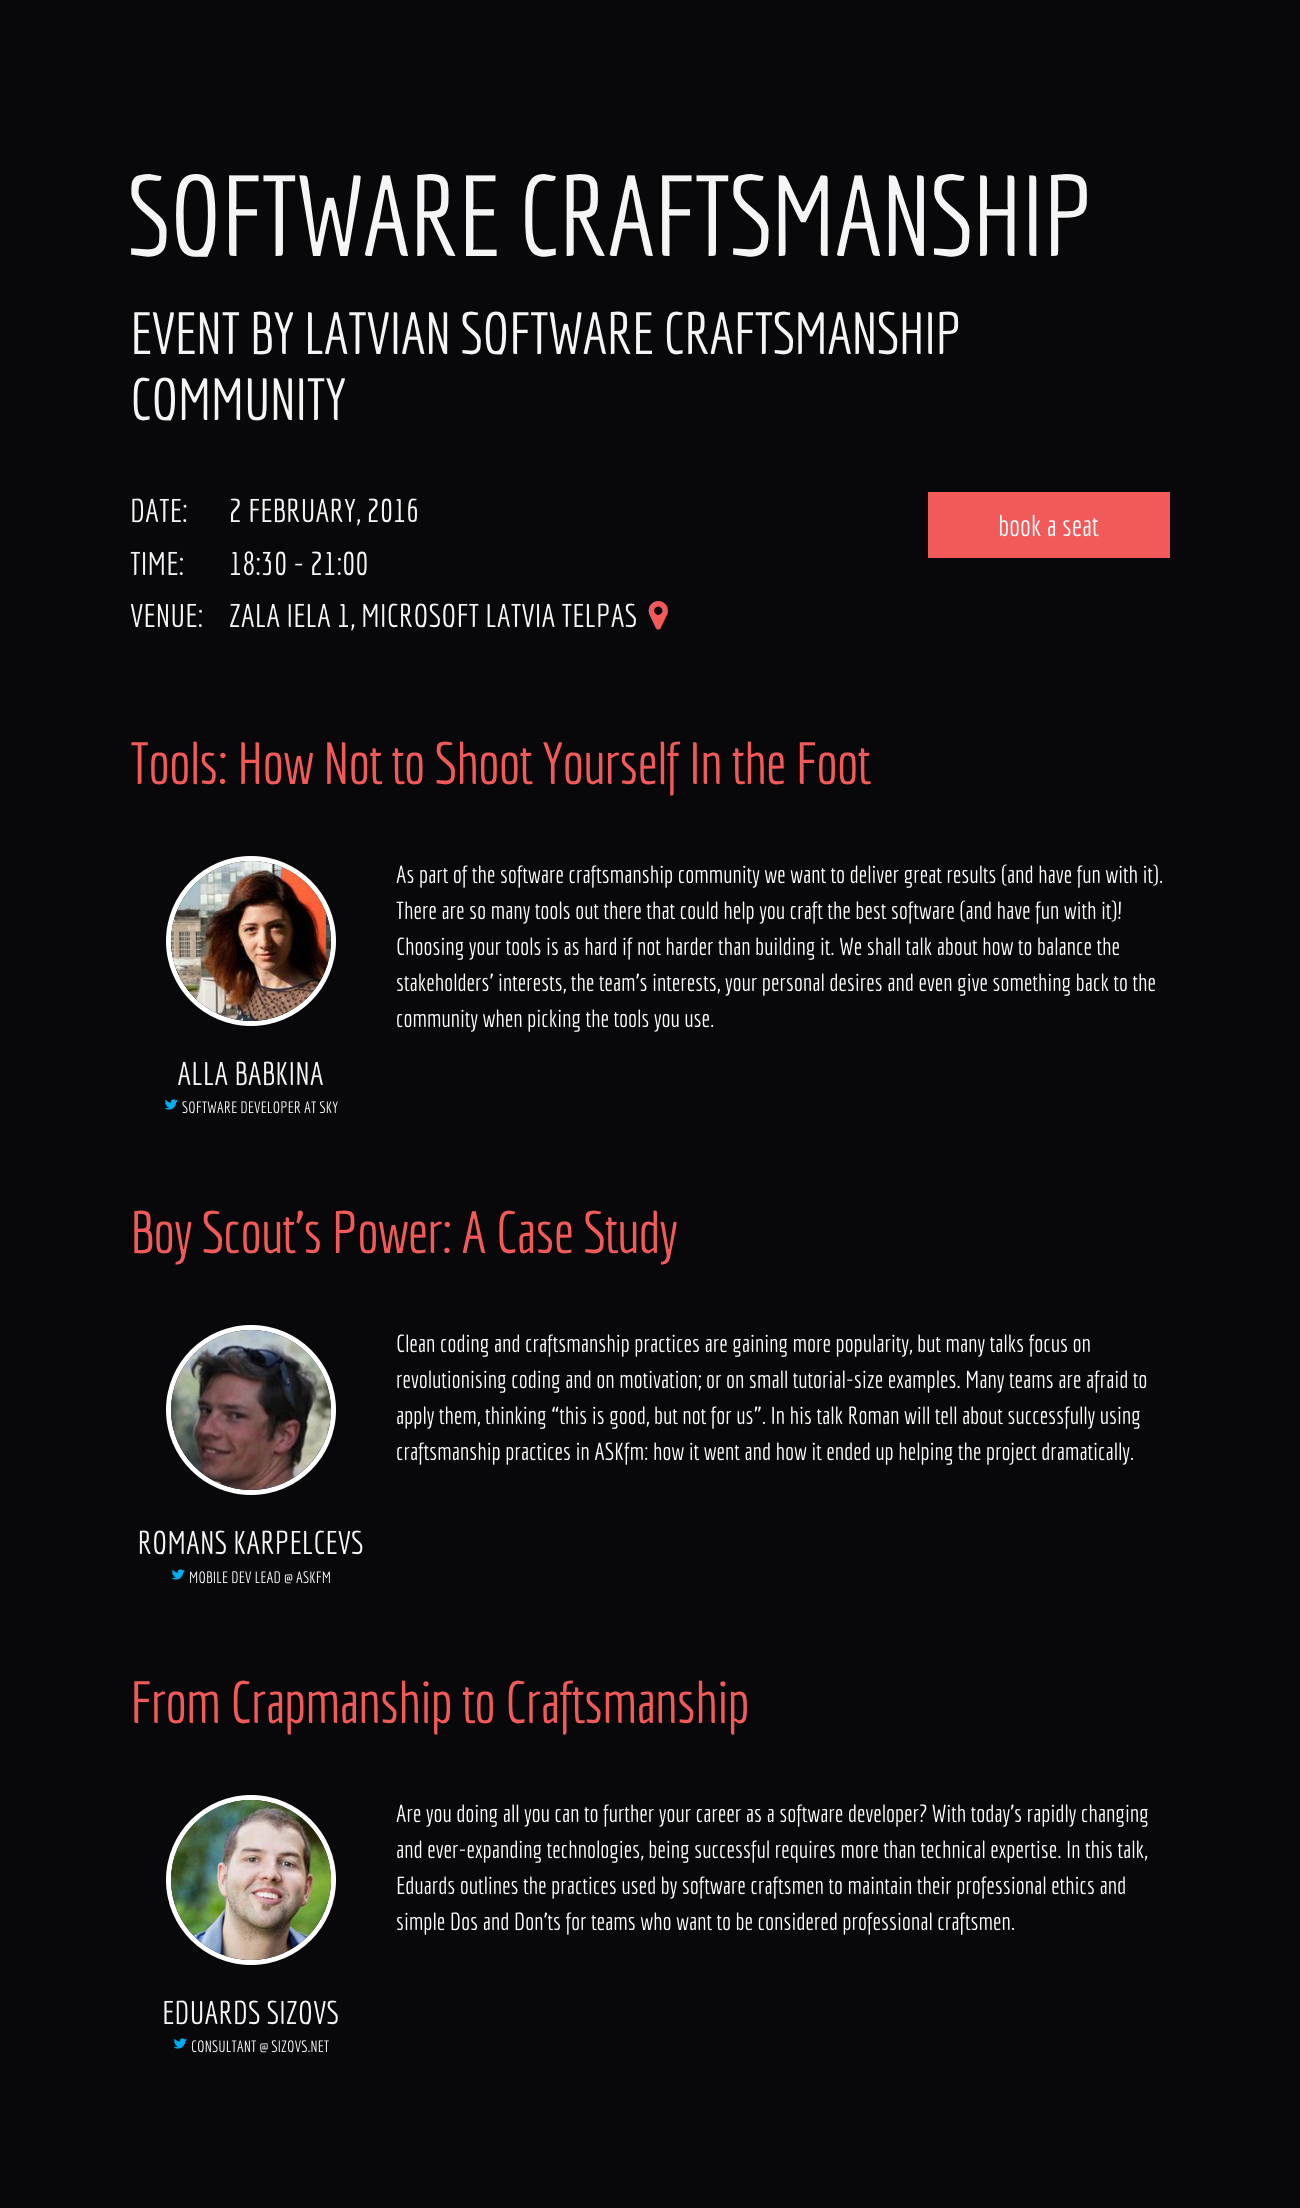
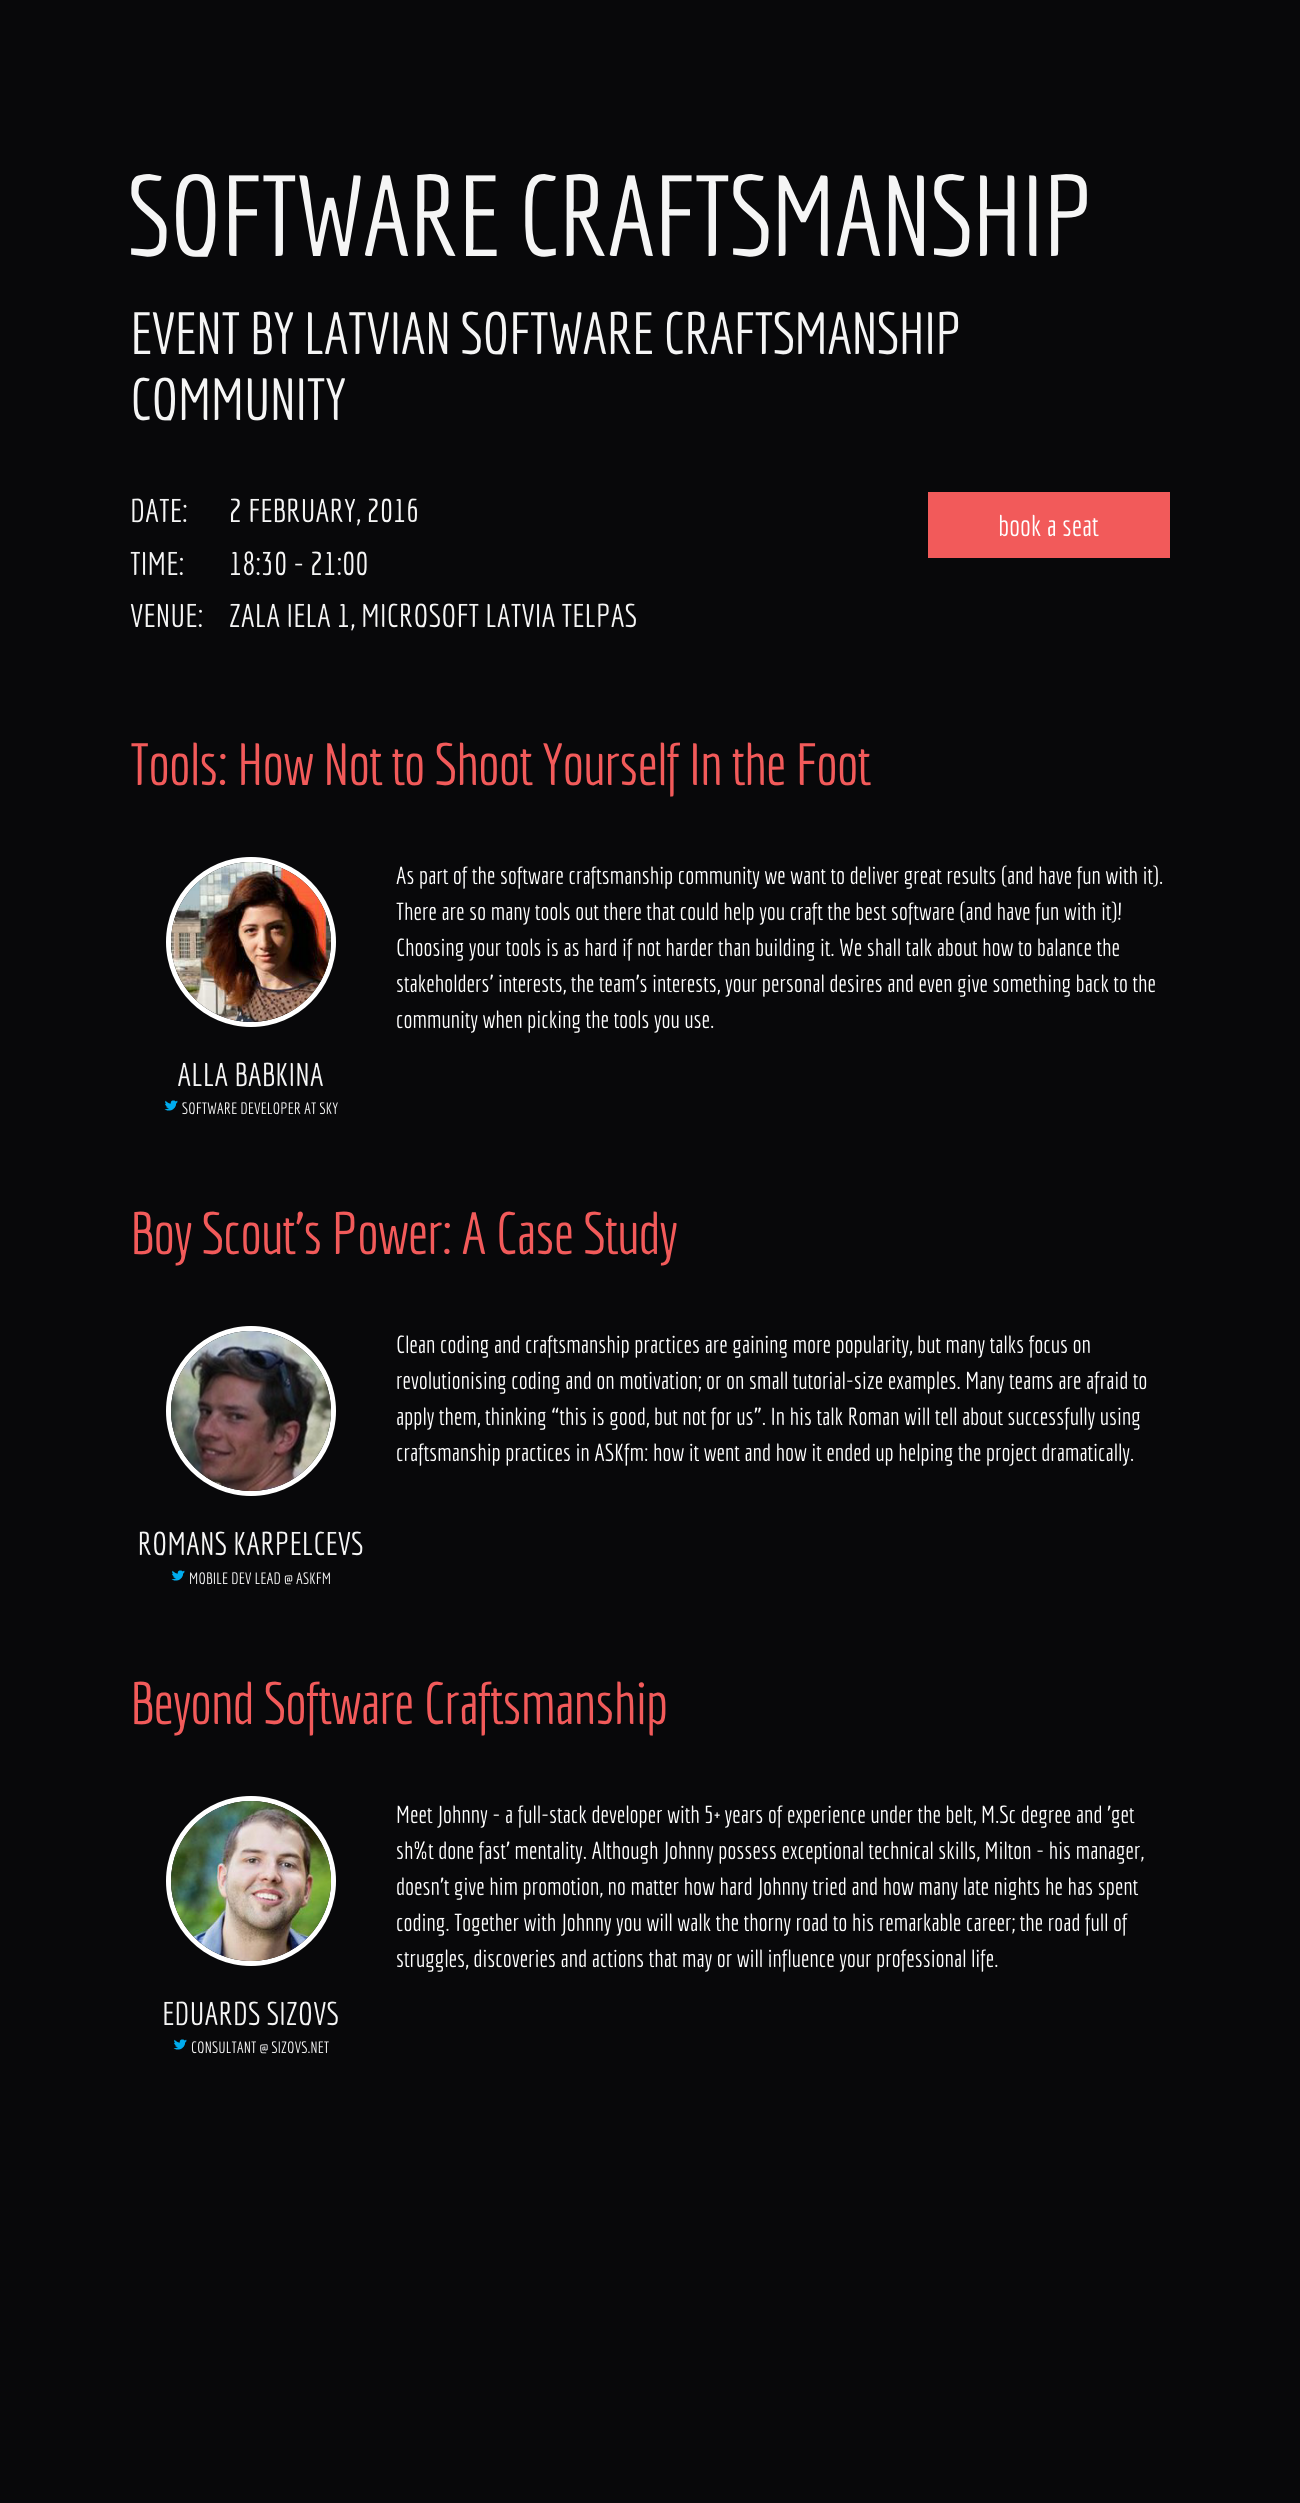
Update 2016-01-26T22:03:34.905Z

diff --git a/2016/craftsmanship.html b/2016/craftsmanship.html
@@ -62,14 +62,14 @@
             </div>
             <p class="description">Clean coding and craftsmanship practices are gaining more popularity, but many talks focus on revolutionising coding and on motivation; or on small tutorial-size examples. Many teams are afraid to apply them, thinking “this is good, but not for us”. In his talk Roman will tell about successfully using craftsmanship practices in ASKfm: how it went and how it ended up helping the project dramatically.														</p>
           </section>
-          <h2>From Crapmanship to Craftsmanship</h2>
+          <h2>Beyond Software Craftsmanship</h2>
           <section>
             <div class="bio"><img src="/img/speakers/eduardsi.jpg" alt="Eduards Sizovs" class="headshot">
               <h3>Eduards Sizovs</h3>
               <h4> <a href="https://twitter.com/eduardsi"><img src="/img/twitter.png" alt="@eduardsi at Twitter"></a><span>&nbsp;Consultant @ Sizovs.net</span>
               </h4>
             </div>
-            <p class="description">Are you doing all you can to further your career as a software developer? With today's rapidly changing and ever-expanding technologies, being successful requires more than technical expertise. In this talk, Eduards outlines the practices used by software craftsmen to maintain their professional ethics and simple Dos and Don'ts for teams who want to be considered professional craftsmen.														</p>
+            <p class="description">Meet Johnny - a full-stack developer with 5+ years of experience under the belt, M.Sc degree and 'get sh%t done fast' mentality. Although Johnny possess exceptional technical skills, Milton - his manager, doesn't give him promotion, no matter how hard Johnny tried and how many late nights he has spent coding. Together with Johnny you will walk the thorny road to his remarkable career; the road full of struggles, discoveries and actions that may or will influence your professional life.														</p>
           </section>
         </div>
       </div>

diff --git a/img/2016/craftsmanship.html b/img/2016/craftsmanship.html
@@ -62,14 +62,14 @@
             </div>
             <p class="description">Clean coding and craftsmanship practices are gaining more popularity, but many talks focus on revolutionising coding and on motivation; or on small tutorial-size examples. Many teams are afraid to apply them, thinking “this is good, but not for us”. In his talk Roman will tell about successfully using craftsmanship practices in ASKfm: how it went and how it ended up helping the project dramatically.														</p>
           </section>
-          <h2>From Crapmanship to Craftsmanship</h2>
+          <h2>Beyond Software Craftsmanship</h2>
           <section>
             <div class="bio"><img src="/img/speakers/eduardsi.jpg" alt="Eduards Sizovs" class="headshot">
               <h3>Eduards Sizovs</h3>
               <h4> <a href="https://twitter.com/eduardsi"><img src="/img/twitter.png" alt="@eduardsi at Twitter"></a><span>&nbsp;Consultant @ Sizovs.net</span>
               </h4>
             </div>
-            <p class="description">Are you doing all you can to further your career as a software developer? With today's rapidly changing and ever-expanding technologies, being successful requires more than technical expertise. In this talk, Eduards outlines the practices used by software craftsmen to maintain their professional ethics and simple Dos and Don'ts for teams who want to be considered professional craftsmen.														</p>
+            <p class="description">Meet Johnny - a full-stack developer with 5+ years of experience under the belt, M.Sc degree and 'get sh%t done fast' mentality. Although Johnny possess exceptional technical skills, Milton - his manager, doesn't give him promotion, no matter how hard Johnny tried and how many late nights he has spent coding. Together with Johnny you will walk the thorny road to his remarkable career; the road full of struggles, discoveries and actions that may or will influence your professional life.														</p>
           </section>
         </div>
       </div>

diff --git a/index.html b/index.html
@@ -122,14 +122,14 @@
                 </li>
                 <li>
                   <div class="title-holder">
-                    <h3>(20:05) From Crapmanship to Craftsmanship
+                    <h3>(20:05) Beyond Software Craftsmanship
                     </h3>
                   </div>
                   <div class="author"><img src="img/speakers/eduardsi.jpg" alt="" class="headshot">
                     <h5>Eduards Sizovs<a href="https://twitter.com/eduardsi"><img src="img/twitter.png" alt="@eduardsi at Twitter"></a>
                     </h5><span>Consultant @ Sizovs.net</span>
                   </div>
-                  <p>Are you doing all you can to further your career as a software developer? With today's rapidly changing and ever-expanding technologies, being successful requires more than technical expertise. In this talk, Eduards outlines the practices used by software craftsmen to maintain their professional ethics and simple Dos and Don'ts for teams who want to be considered professional craftsmen.</p>
+                  <p>Meet Johnny - a full-stack developer with 5+ years of experience under the belt, M.Sc degree and 'get sh%t done fast' mentality. Although Johnny possess exceptional technical skills, Milton - his manager, doesn't give him promotion, no matter how hard Johnny tried and how many late nights he has spent coding. Together with Johnny you will walk the thorny road to his remarkable career; the road full of struggles, discoveries and actions that may or will influence your professional life.</p>
                   <div class="button-group">
                   </div>
                 </li>
